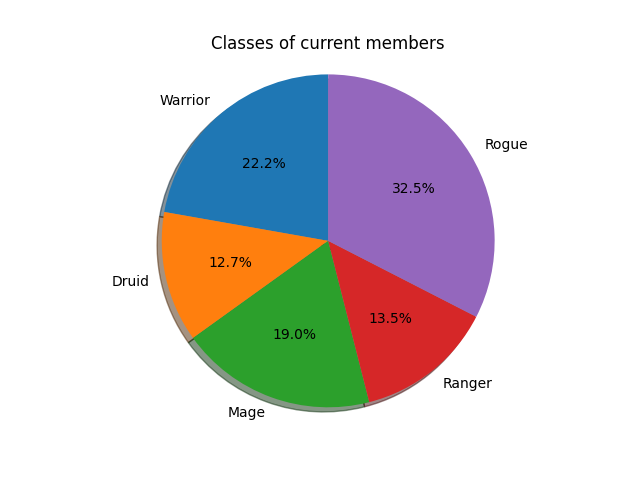
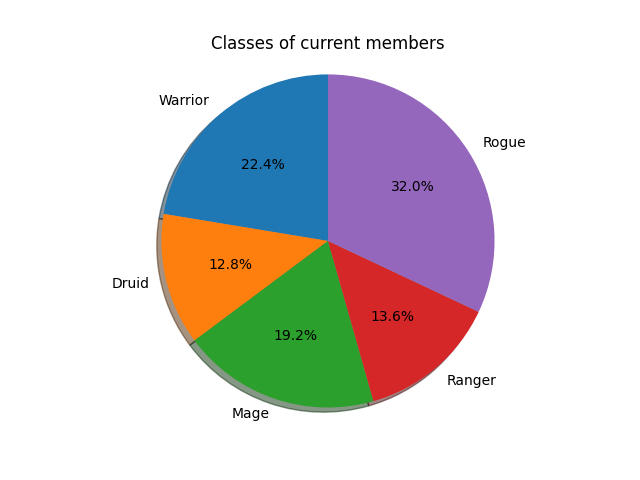
added pie char for every class

diff --git a/security/main.py b/security/main.py
@@ -2,6 +2,7 @@ import requests
 import os
 import time
 import server
+import numpy as np
 
 from threading import Thread
 from replit import db
@@ -16,6 +17,12 @@ TAGS = os.getenv('TAGS').split(',')
 URL3 = os.getenv('URL3')
 IMG_PATH_LVLS = 'security/lvls.png'
 IMG_PATH_CLASSES = 'security/classes.png'
+IMG_PATH_LVL_WARRIOR = 'security/lvl_warrior.png'
+IMG_PATH_LVL_DRUID = 'security/lvl_druid.png'
+IMG_PATH_LVL_MAGE = 'security/lvl_mage.png'
+IMG_PATH_LVL_RANGER = 'security/lvl_ranger.png'
+IMG_PATH_LVL_ROGUE = 'security/lvl_rogue.png'
+TICK = 10
 
 db['status'] = f'Alive since {datetime.now()}'
 
@@ -46,15 +53,14 @@ def send_img(img_path):
             utils.logger(f'{res.status_code}\n{img_path}')
 
 
-def create_plot_file(title, data, labels, img_path):
+def create_plot_pie_file(title, data, labels, img_path):
     fig1, ax1 = plt.subplots()
     ax1.pie(data, labels=labels, autopct='%1.1f%%', shadow=True, startangle=90)
     ax1.axis('equal')
     plt.title(title)
     plt.savefig(img_path)
-    plt.close(fig1)
-
-
+    plt.close('all')
+    
 db['ebk_members'] = sorted(db['ebk_members'])
 msg = f'------__***Full list of people who joined EBK***__------\n'
 for member in db['ebk_members']:
@@ -83,12 +89,19 @@ while True:
         class_ = member['ClassName']
 
         if level not in levels:
-            levels[level] = 1
+            levels[level] = {
+                'Warrior': 0,
+                'Druid': 0,
+                'Mage': 0,
+                'Ranger': 0,
+                'Rogue': 0
+            }
+            levels[level][class_] = 1
         else:
-            levels[level] += 1
+            levels[level][class_] += 1
 
         classes[class_] += 1
-
+        
         if name not in members_db:
             new_members = True
             members_db.append(name)
@@ -103,12 +116,62 @@ while True:
         str_to_send += '\n@everyone'
 
     send_msg(str_to_send)
-
-    create_plot_file('Level of current members',
-                     levels.values(), levels.keys(), IMG_PATH_LVLS)
+    
+    levels_stats = {}
+    warrior = {}
+    druid = {}
+    mage = {}
+    ranger = {}
+    rogue = {}
+    for lvl in range(0, max(levels.keys()) + 1, TICK):
+        lvl_str = f'{lvl}-{lvl+TICK - 1}'
+        levels_stats[lvl_str] = 0
+        warrior[lvl_str] = 0
+        druid[lvl_str] = 0
+        mage[lvl_str] = 0
+        ranger[lvl_str] = 0
+        mage[lvl_str] = 0
+        rogue[lvl_str] = 0
+        for lvl_ in range(lvl, lvl + TICK):
+            if lvl_ in levels:
+                levels_stats[lvl_str] += sum(levels[lvl_].values())
+                warrior[lvl_str] += levels[lvl_]['Warrior']
+                druid[lvl_str] += levels[lvl_]['Druid']
+                mage[lvl_str] += levels[lvl_]['Mage']
+                ranger[lvl_str] += levels[lvl_]['Ranger']
+                rogue[lvl_str] += levels[lvl_]['Rogue']
+        
+        if levels_stats[lvl_str] == 0:
+            del levels_stats[lvl_str]
+        if warrior[lvl_str] == 0:
+            del warrior[lvl_str]
+        if druid[lvl_str] == 0:
+            del druid[lvl_str]
+        if mage[lvl_str] == 0:
+            del mage[lvl_str]
+        if ranger[lvl_str] == 0:
+            del ranger[lvl_str]
+        if rogue[lvl_str] == 0:
+            del rogue[lvl_str]
+    
+    create_plot_pie_file('Level of current members',
+                     levels_stats.values(), levels_stats.keys(), IMG_PATH_LVLS)
     send_img(IMG_PATH_LVLS)
-    create_plot_file('Classes of current members',
+    create_plot_pie_file('Classes of current members',
                      classes.values(), classes.keys(), IMG_PATH_CLASSES)
     send_img(IMG_PATH_CLASSES)
+    create_plot_pie_file('Warrior', warrior.values(), warrior.keys(), IMG_PATH_LVL_WARRIOR)
+    send_img(IMG_PATH_LVL_WARRIOR)
+    create_plot_pie_file('Druid', druid.values(), druid.keys(), IMG_PATH_LVL_DRUID)
+    send_img(IMG_PATH_LVL_DRUID)
+    create_plot_pie_file('Mage', mage.values(), mage.keys(), IMG_PATH_LVL_MAGE)
+    send_img(IMG_PATH_LVL_MAGE)
+    create_plot_pie_file('Ranger', ranger.values(), ranger.keys(), IMG_PATH_LVL_RANGER)
+    send_img(IMG_PATH_LVL_RANGER)
+    create_plot_pie_file('Rogue', rogue.values(), rogue.keys(), IMG_PATH_LVL_ROGUE)
+    send_img(IMG_PATH_LVL_ROGUE)
 
+        
+    
+    
     time.sleep(3600)
